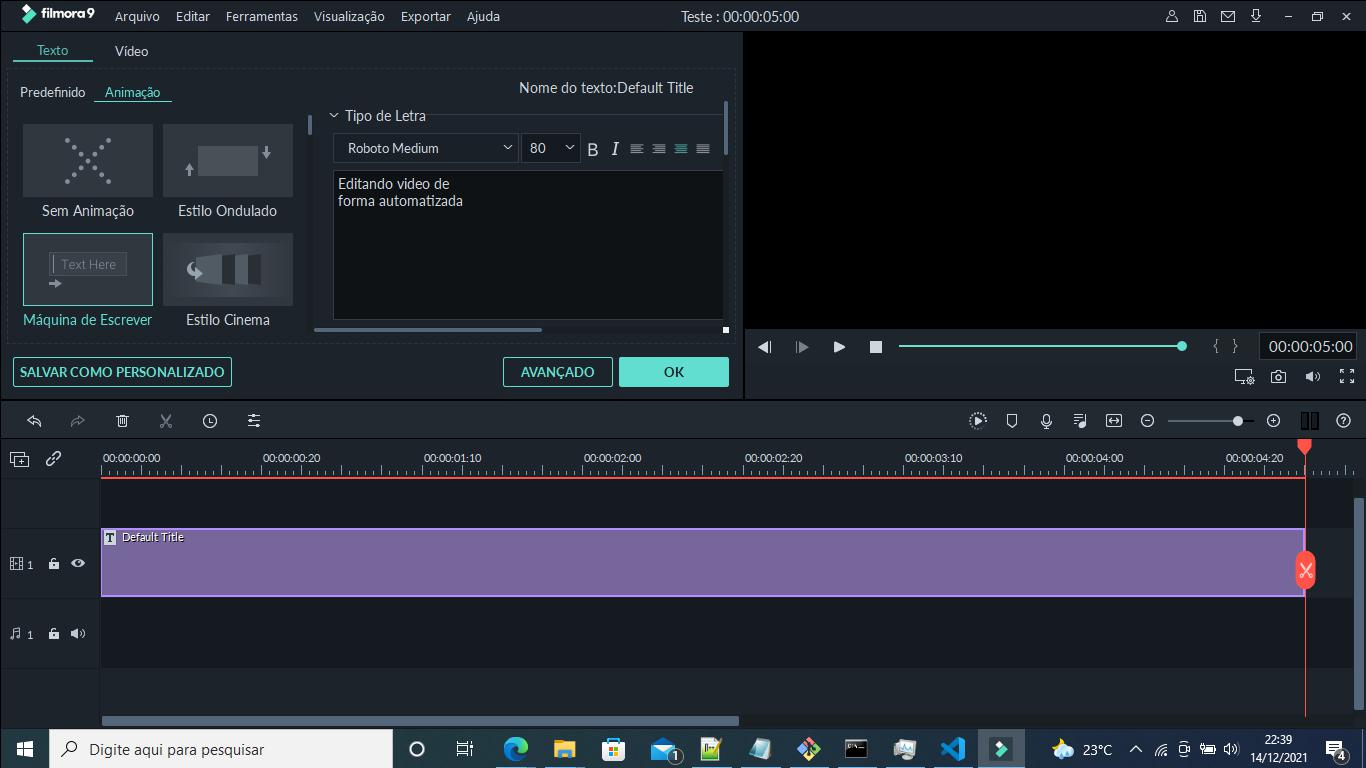
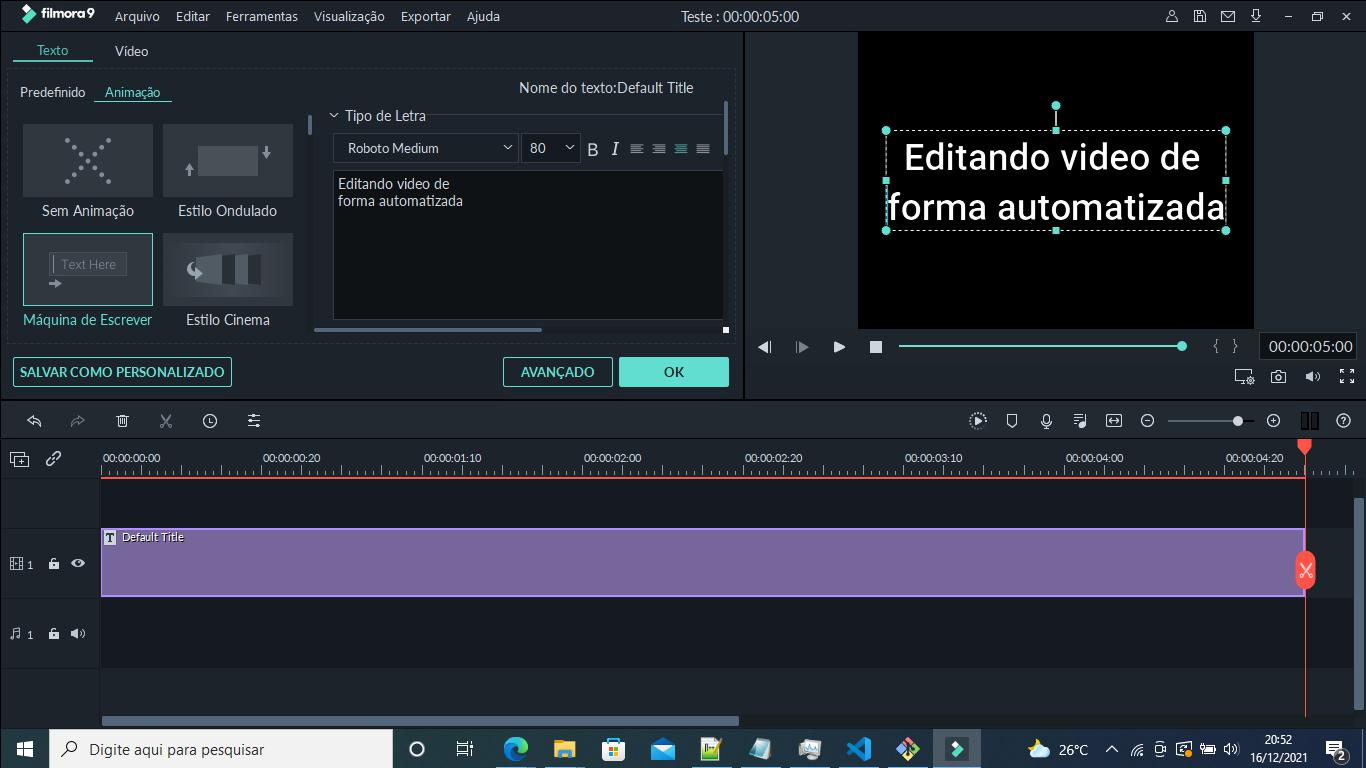
Commit da V.2

diff --git a/log/log.html b/log/log.html
@@ -1795,25 +1795,25 @@ function stopPropagation(event) {
 window.output = {};
 </script>
 <script type="text/javascript">
-window.output["suite"] = [1,2,3,0,[],[1,0,46426],[],[[4,0,0,[],[1,373,46051],[[0,5,0,0,0,0,0,0,[1,374,5],[[0,6,7,0,8,9,0,0,[1,375,4],[]]]],[0,10,11,0,12,13,0,0,[1,380,20009],[[8,20388,2,14]]],[0,15,7,0,16,17,0,0,[1,20391,310],[[8,20592,2,18],[8,20592,2,19]]],[0,15,7,0,16,20,0,0,[1,20702,283],[[8,20864,2,21],[8,20864,2,22]]],[0,23,7,0,24,0,0,0,[1,20987,132],[]],[0,10,11,0,12,25,0,0,[1,21136,5008],[[8,26143,2,26]]],[0,27,7,0,28,29,0,0,[1,26146,220],[[8,26366,2,30]]],[0,15,7,0,16,31,0,0,[1,26367,263],[[8,26518,2,32],[8,26518,2,33]]],[0,10,11,0,12,34,0,0,[1,26630,2007],[[8,28637,2,35]]],[0,23,7,0,24,0,0,0,[1,28640,121],[]],[0,10,11,0,12,34,0,0,[1,28761,2010],[[8,30770,2,35]]],[0,15,7,0,16,36,0,0,[1,30773,313],[[8,30976,2,37],[8,30976,2,38]]],[0,15,7,0,16,39,0,0,[1,31088,276],[[8,31252,2,40],[8,31252,2,41]]],[0,10,11,0,12,34,0,0,[1,31365,2006],[[8,33371,2,35]]],[0,42,7,0,43,0,0,0,[1,33373,123],[]],[0,44,7,0,45,46,0,0,[1,33497,186],[]],[0,10,11,0,12,34,0,0,[1,33683,2007],[[8,35689,2,35]]],[0,47,7,0,48,49,0,0,[1,35693,122],[]],[0,47,7,0,48,49,0,0,[1,35816,109],[]],[0,10,11,0,12,34,0,0,[1,35926,2017],[[8,37942,2,35]]],[0,44,7,0,45,50,0,0,[1,37945,107],[]],[0,15,7,0,16,51,0,0,[1,38052,252],[[8,38193,2,52],[8,38193,2,53]]],[0,10,11,0,12,34,0,0,[1,38304,2016],[[8,40319,2,35]]],[0,15,7,0,16,54,0,0,[1,40323,293],[[8,40500,2,55],[8,40500,2,56]]],[0,23,7,0,24,0,0,0,[1,40616,111],[]],[0,15,7,0,16,57,0,0,[1,40733,329],[[8,40925,2,58],[8,40926,2,59]]],[0,44,7,0,45,60,0,0,[1,41065,114],[]],[0,10,11,0,12,25,0,0,[1,41183,5007],[[8,46189,2,26]]],[0,44,7,0,45,61,0,0,[1,46201,122],[]],[2,62,0,0,0,0,0,0,[1,46326,97],[[0,63,0,0,0,0,0,0,[1,46327,93],[[0,64,65,0,66,0,67,0,[1,46328,92],[[8,46419,2,68],[8,46420,2,69]]]]],[0,70,7,0,71,0,0,0,[1,46420,2],[]]]]]]],[],[1,1,0,0]];
+window.output["suite"] = [1,2,3,0,[],[1,0,51698],[],[[4,0,0,[],[1,414,51282],[[0,5,6,0,0,0,0,0,[1,415,25380],[[0,7,6,0,0,0,0,0,[1,415,6],[[0,8,9,0,10,11,0,0,[1,415,5],[]]]],[0,12,13,0,14,15,0,0,[1,421,25011],[[8,25431,2,16]]],[0,17,9,0,18,19,0,0,[1,25432,363],[[8,25685,2,20],[8,25685,2,21]]]]],[0,22,6,0,0,0,0,0,[1,25796,5675],[[0,17,9,0,18,23,0,0,[1,25797,282],[[8,25970,2,24],[8,25970,2,25]]],[0,26,9,0,27,0,0,0,[1,26079,135],[]],[0,12,13,0,14,28,0,0,[1,26214,5052],[[8,31265,2,29]]],[0,30,9,0,31,32,0,0,[1,31266,205],[[8,31471,2,33]]]]],[0,34,6,0,0,0,0,0,[1,31472,9458],[[0,17,9,0,18,35,0,0,[1,31472,268],[[8,31627,2,36],[8,31627,2,37]]],[0,12,13,0,14,38,0,0,[1,31740,2012],[[8,33751,2,39]]],[0,26,9,0,27,0,0,0,[1,33752,125],[]],[0,12,13,0,14,38,0,0,[1,33877,2012],[[8,35888,2,39]]],[0,17,9,0,18,40,0,0,[1,35889,507],[[8,36283,2,41],[8,36283,2,42]]],[0,17,9,0,18,43,0,0,[1,36396,256],[[8,36548,2,44],[8,36548,2,45]]],[0,12,13,0,14,38,0,0,[1,36652,2008],[[8,38660,2,39]]],[0,46,9,0,47,0,0,0,[1,38661,109],[]],[0,48,9,0,49,50,0,0,[1,38770,144],[]],[0,12,13,0,14,38,0,0,[1,38914,2015],[[8,40928,2,39]]]]],[0,51,6,0,0,0,0,0,[1,40932,2354],[[0,52,9,0,53,54,0,0,[1,40933,122],[]],[0,52,9,0,53,54,0,0,[1,41055,112],[]],[0,12,13,0,14,38,0,0,[1,41167,2010],[[8,43176,2,39]]],[0,48,9,0,49,55,0,0,[1,43177,109],[]]]],[0,56,6,0,0,0,0,0,[1,43287,2722],[[0,17,9,0,18,57,0,0,[1,43287,253],[[8,43436,2,58],[8,43436,2,59]]],[0,12,13,0,14,38,0,0,[1,43540,2008],[[8,45548,2,39]]],[0,17,9,0,18,60,0,0,[1,45549,348],[[8,45770,2,61],[8,45770,2,62]]],[0,26,9,0,27,0,0,0,[1,45897,112],[]]]],[0,63,6,0,0,0,0,0,[1,46010,434],[[0,17,9,0,18,64,0,0,[1,46011,319],[[8,46203,2,65],[8,46203,2,66]]],[0,48,9,0,49,67,0,0,[1,46330,112],[]]]],[0,68,6,0,0,0,0,0,[1,46447,5114],[[0,12,13,0,14,28,0,0,[1,46447,5007],[[8,51454,2,29]]],[0,48,9,0,49,69,0,0,[1,51454,107],[]]]],[2,70,0,0,0,0,0,0,[1,51562,134],[[0,71,0,0,0,0,0,0,[1,51563,130],[[0,72,73,0,74,0,75,0,[1,51563,130],[[8,51693,2,76],[8,51693,2,77]]]]],[0,78,9,0,79,0,0,0,[1,51694,1],[]]]]]]],[],[1,1,0,0]];
 </script>
 <script type="text/javascript">
 window.output["strings"] = [];
 </script>
 <script type="text/javascript">
-window.output["strings"] = window.output["strings"].concat(["*","*Resource","*D:\\Users\\mauri\\Documents\\Cursos\\Robot\\Robot_Desktop\\resources\\abrirApp\\resource.robot","*../resources/abrirApp/resource.robot","*Cenário 01: Abrir Filmora","*Iniciar Filmora","*Launch Application","*ImageHorizonLibrary","*<p>Launches an application.\x3c/p>","*C:/Program Files/Wondershare/Filmora9/Wondershare Filmora9.exe","*Sleep","*BuiltIn","*<p>Pauses the test executed for the given time.\x3c/p>","*20","*Slept 20 seconds","*Click Image","*<p>Finds the reference image on screen and clicks it once.\x3c/p>","*app.png","*Image \"D:\\Users\\mauri\\Documents\\Cursos\\Robot\\Robot_Desktop\\resources\\images\\app.png\" found at Box(left=979, top=727, width=42, height=41)","*Clicking image \"app.png\" in position (1000, 747)","*abrir.png","*Image \"D:\\Users\\mauri\\Documents\\Cursos\\Robot\\Robot_Desktop\\resources\\images\\abrir.png\" found at Box(left=828, top=237, width=75, height=25)","*Clicking image \"abrir.png\" in position (865, 249)","*Double Click","*<p>Double clicks with the specified mouse button.\x3c/p>","*5","*Slept 5 seconds","*Wait For","*<p>Tries to locate given image from the screen for given time.\x3c/p>","*projetoCarregado.png","*Image \"projetoCarregado.png\" found at (1055, 182)","*editarTexto.png","*Image \"D:\\Users\\mauri\\Documents\\Cursos\\Robot\\Robot_Desktop\\resources\\images\\editartexto.png\" found at Box(left=892, top=152, width=315, height=50)","*Clicking image \"editarTexto.png\" in position (1049, 177)","*2","*Slept 2 seconds","*campoTexto.png","*Image \"D:\\Users\\mauri\\Documents\\Cursos\\Robot\\Robot_Desktop\\resources\\images\\campotexto.png\" found at Box(left=333, top=170, width=388, height=149)","*Clicking image \"campoTexto.png\" in position (527, 244)","*your.png","*Image \"D:\\Users\\mauri\\Documents\\Cursos\\Robot\\Robot_Desktop\\resources\\images\\your.png\" found at Box(left=332, top=171, width=47, height=24)","*Clicking image \"your.png\" in position (355, 183)","*Triple Click","*<p>Triple clicks with the specified mouse button.\x3c/p>","*Type","*<p>Type text and keyboard keys.\x3c/p>","*Editando video de forma automatizada","*Press Combination","*<p>Press given keyboard keys.\x3c/p>","*key.ctrl, key.left","*Key.Enter","*clickAnimacao.png","*Image \"D:\\Users\\mauri\\Documents\\Cursos\\Robot\\Robot_Desktop\\resources\\images\\clickanimacao.png\" found at Box(left=97, top=78, width=71, height=26)","*Clicking image \"clickAnimacao.png\" in position (132, 91)","*clickPersonalizar.png","*Image \"D:\\Users\\mauri\\Documents\\Cursos\\Robot\\Robot_Desktop\\resources\\images\\clickpersonalizar.png\" found at Box(left=15, top=229, width=143, height=100)","*Clicking image \"clickPersonalizar.png\" in position (86, 279)","*iconeTelaCheia","*Image \"D:\\Users\\mauri\\Documents\\Cursos\\Robot\\Robot_Desktop\\resources\\images\\iconetelacheia.png\" found at Box(left=1333, top=361, width=27, height=29)","*Clicking image \"iconeTelaCheia\" in position (1346, 375)","*key.space","*key.esc","*Encerrar Aplicacao","*Tirar Print","*Take Screenshot","*Screenshot","*<p>Takes a screenshot in JPEG format and embeds it into the log file.\x3c/p>","*${ScreenshotPath}","*<a href=\"screenshot_6.jpg\"><img src=\"screenshot_6.jpg\" width=\"800px\">\x3c/a>","*${ScreenshotPath} = D:\\Users\\mauri\\Documents\\Cursos\\Robot\\Robot_Desktop\\log\\screenshot_6.jpg","*Terminate Application","*<p>Terminates the process launched with `Launch Application` with given <code>alias\x3c/code>.\x3c/p>"]);
+window.output["strings"] = window.output["strings"].concat(["*","*Resource","*D:\\Users\\mauri\\Documents\\Cursos\\Robot\\Robot_Desktop\\resources\\abrirApp\\resource.robot","*../resources/abrirApp/resource.robot","*Cenário 01: Abrir Filmora editar e executar um projeto","*Dado que o Filmora seja iniciado","*keywords","*Iniciar Filmora","*Launch Application","*ImageHorizonLibrary","*<p>Launches an application.\x3c/p>","*C:/Program Files/Wondershare/Filmora9/Wondershare Filmora9.exe","*Sleep","*BuiltIn","*<p>Pauses the test executed for the given time.\x3c/p>","*25","*Slept 25 seconds","*Click Image","*<p>Finds the reference image on screen and clicks it once.\x3c/p>","*app.png","*Image \"D:\\Users\\mauri\\Documents\\Cursos\\Robot\\Robot_Desktop\\resources\\images\\app.png\" found at Box(left=935, top=727, width=42, height=41)","*Clicking image \"app.png\" in position (956, 747)","*Quando abrir projeto existente","*abrir.png","*Image \"D:\\Users\\mauri\\Documents\\Cursos\\Robot\\Robot_Desktop\\resources\\images\\abrir.png\" found at Box(left=828, top=237, width=75, height=25)","*Clicking image \"abrir.png\" in position (865, 249)","*Double Click","*<p>Double clicks with the specified mouse button.\x3c/p>","*5","*Slept 5 seconds","*Wait For","*<p>Tries to locate given image from the screen for given time.\x3c/p>","*projetoCarregado.png","*Image \"projetoCarregado.png\" found at (1055, 182)","*E selecionar e editar o texto do video","*editarTexto.png","*Image \"D:\\Users\\mauri\\Documents\\Cursos\\Robot\\Robot_Desktop\\resources\\images\\editartexto.png\" found at Box(left=892, top=152, width=315, height=50)","*Clicking image \"editarTexto.png\" in position (1049, 177)","*2","*Slept 2 seconds","*campoTexto.png","*Image \"D:\\Users\\mauri\\Documents\\Cursos\\Robot\\Robot_Desktop\\resources\\images\\campotexto.png\" found at Box(left=333, top=170, width=388, height=149)","*Clicking image \"campoTexto.png\" in position (527, 244)","*your.png","*Image \"D:\\Users\\mauri\\Documents\\Cursos\\Robot\\Robot_Desktop\\resources\\images\\your.png\" found at Box(left=332, top=171, width=47, height=24)","*Clicking image \"your.png\" in position (355, 183)","*Triple Click","*<p>Triple clicks with the specified mouse button.\x3c/p>","*Type","*<p>Type text and keyboard keys.\x3c/p>","*Editando video de forma automatizada","*E centralizar o texto","*Press Combination","*<p>Press given keyboard keys.\x3c/p>","*key.ctrl, key.left","*Key.Enter","*E inserir uma animação","*clickAnimacao.png","*Image \"D:\\Users\\mauri\\Documents\\Cursos\\Robot\\Robot_Desktop\\resources\\images\\clickanimacao.png\" found at Box(left=97, top=78, width=71, height=26)","*Clicking image \"clickAnimacao.png\" in position (132, 91)","*clickPersonalizar.png","*Image \"D:\\Users\\mauri\\Documents\\Cursos\\Robot\\Robot_Desktop\\resources\\images\\clickpersonalizar.png\" found at Box(left=15, top=229, width=143, height=100)","*Clicking image \"clickPersonalizar.png\" in position (86, 279)","*E executar o video em tela cheia","*iconeTelaCheia","*Image \"D:\\Users\\mauri\\Documents\\Cursos\\Robot\\Robot_Desktop\\resources\\images\\iconetelacheia.png\" found at Box(left=1333, top=361, width=27, height=29)","*Clicking image \"iconeTelaCheia\" in position (1346, 375)","*key.space","*Então sair do modo tela cheia e encerrar aplicação","*key.esc","*Encerrar Aplicacao","*Tirar Print","*Take Screenshot","*Screenshot","*<p>Takes a screenshot in JPEG format and embeds it into the log file.\x3c/p>","*${ScreenshotPath}","*<a href=\"screenshot_2.jpg\"><img src=\"screenshot_2.jpg\" width=\"800px\">\x3c/a>","*${ScreenshotPath} = D:\\Users\\mauri\\Documents\\Cursos\\Robot\\Robot_Desktop\\log\\screenshot_2.jpg","*Terminate Application","*<p>Terminates the process launched with `Launch Application` with given <code>alias\x3c/code>.\x3c/p>"]);
 </script>
 <script type="text/javascript">
-window.output["stats"] = [[{"elapsed":"00:00:46","fail":0,"label":"All Tests","pass":1,"skip":0}],[],[{"elapsed":"00:00:46","fail":0,"id":"s1","label":"Resource","name":"Resource","pass":1,"skip":0}]];
+window.output["stats"] = [[{"elapsed":"00:00:51","fail":0,"label":"All Tests","pass":1,"skip":0}],[],[{"elapsed":"00:00:52","fail":0,"id":"s1","label":"Resource","name":"Resource","pass":1,"skip":0}]];
 </script>
 <script type="text/javascript">
 window.output["errors"] = [];
 </script>
 <script type="text/javascript">
-window.output["baseMillis"] = 1639572947582;
+window.output["baseMillis"] = 1639698826798;
 </script>
 <script type="text/javascript">
-window.output["generated"] = 46536;
+window.output["generated"] = 51852;
 </script>
 <script type="text/javascript">
 window.output["expand_keywords"] = null;

diff --git a/log/report.html b/log/report.html
@@ -1625,22 +1625,22 @@ storage = function () {
 window.output = {};
 </script>
 <script type="text/javascript">
-window.output["suite"] = [1,2,3,0,[],[1,0,46426],[],[[4,0,0,[],[1,373,46051],[]]],[],[1,1,0,0]];
+window.output["suite"] = [1,2,3,0,[],[1,0,51698],[],[[4,0,0,[],[1,414,51282],[]]],[],[1,1,0,0]];
 </script>
 <script type="text/javascript">
 window.output["strings"] = [];
 </script>
 <script type="text/javascript">
-window.output["strings"] = window.output["strings"].concat(["*","*Resource","*D:\\Users\\mauri\\Documents\\Cursos\\Robot\\Robot_Desktop\\resources\\abrirApp\\resource.robot","*../resources/abrirApp/resource.robot","*Cenário 01: Abrir Filmora"]);
+window.output["strings"] = window.output["strings"].concat(["*","*Resource","*D:\\Users\\mauri\\Documents\\Cursos\\Robot\\Robot_Desktop\\resources\\abrirApp\\resource.robot","*../resources/abrirApp/resource.robot","*Cenário 01: Abrir Filmora editar e executar um projeto"]);
 </script>
 <script type="text/javascript">
-window.output["stats"] = [[{"elapsed":"00:00:46","fail":0,"label":"All Tests","pass":1,"skip":0}],[],[{"elapsed":"00:00:46","fail":0,"id":"s1","label":"Resource","name":"Resource","pass":1,"skip":0}]];
+window.output["stats"] = [[{"elapsed":"00:00:51","fail":0,"label":"All Tests","pass":1,"skip":0}],[],[{"elapsed":"00:00:52","fail":0,"id":"s1","label":"Resource","name":"Resource","pass":1,"skip":0}]];
 </script>
 <script type="text/javascript">
-window.output["baseMillis"] = 1639572947582;
+window.output["baseMillis"] = 1639698826798;
 </script>
 <script type="text/javascript">
-window.output["generated"] = 46536;
+window.output["generated"] = 51852;
 </script>
 <script type="text/javascript">
 window.output["expand_keywords"] = null;
